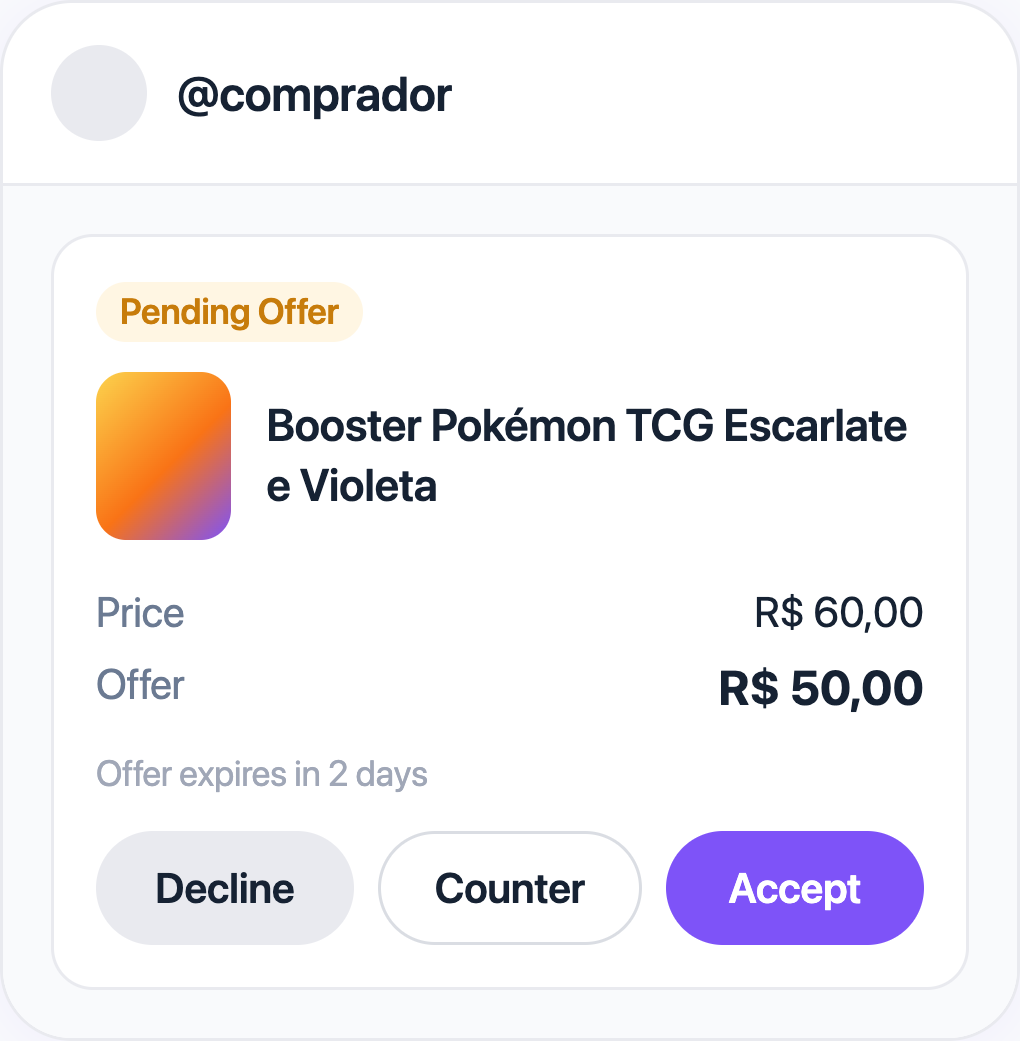
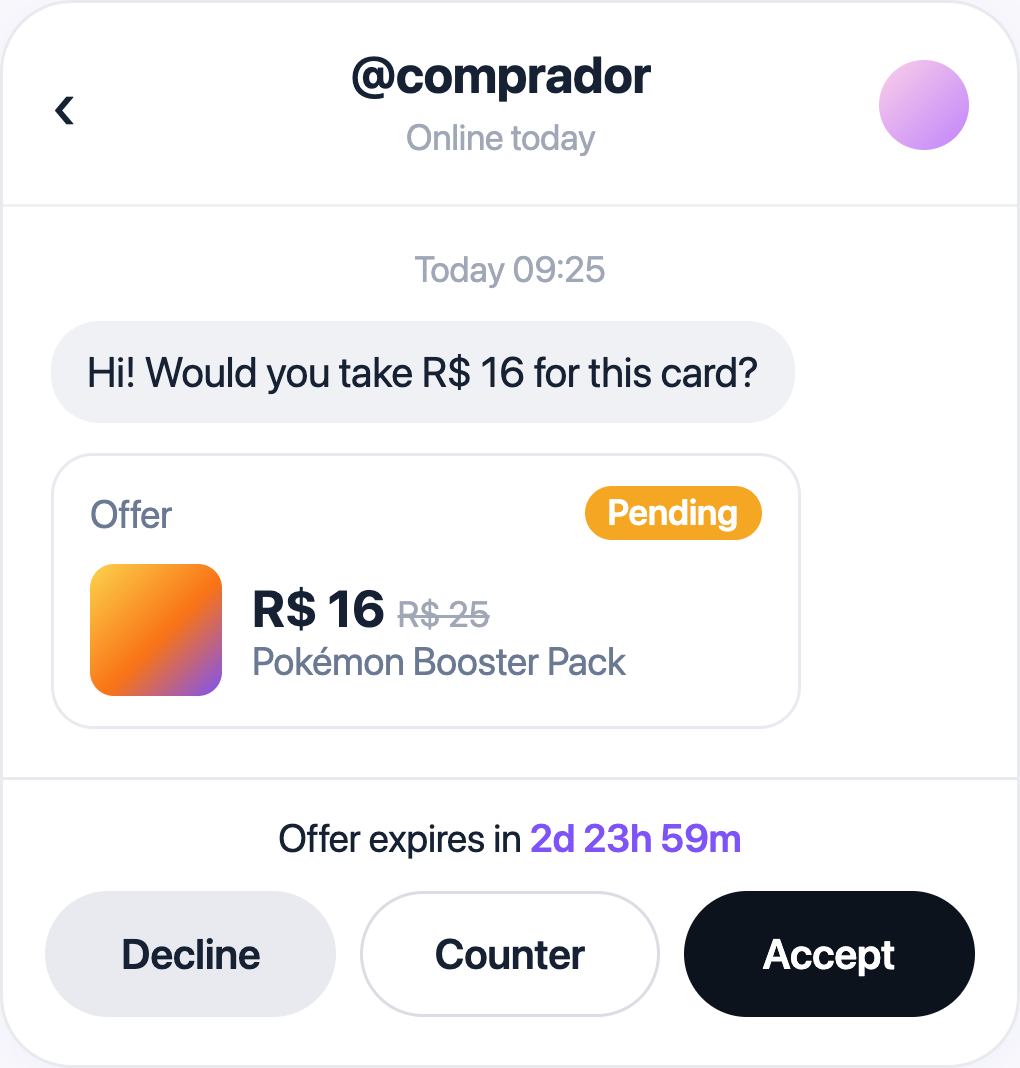
content: align mockups with the real app screens (cart, + menu, DM offer)
Rebuilt from the Figma screens Vai shared: cart sheet (seller header, steppers,
server note 'Ofertas, descontos, frete e taxas são aplicados ao finalizar a
compra.'), Android profile + menu (Agendar uma Live / Criar anúncio na Loja),
DM offer with the bottom bar (expiry, Recusar / Contrapor / Aceitar).
Sell-mode picker (v3, both locales): server titles (Ofertas em Tempo Real,
Morte Súbita, Comprar Agora) and no invented subtitles; the old one described
Comprar Agora with the flash-sale text.

diff --git a/articles/buy-in-the-loja-cart-and-offers/mockup-sources/cart__pt-br.html b/articles/buy-in-the-loja-cart-and-offers/mockup-sources/cart__pt-br.html
@@ -8,22 +8,35 @@ body { font-family: -apple-system, "SF Pro Display", BlinkMacSystemFont, system-
 .btn-outline { background: #FFFFFF; color: #162233; border: 1px solid #DADDE3; }
 .muted { color: #6B7A92; }
 .tert { color: #A0A7B7; }
-.top { padding:14px 16px; font-size:17px; font-weight:600; border-bottom:1px solid #E9EAEF; }
-.grp { padding:14px 16px 4px; }
-.sl { display:flex; align-items:center; gap:8px; font-size:14px; font-weight:600; margin-bottom:10px; }
-.sl .av { width:24px; height:24px; border-radius:50%; background:#E9EAEF; }
-.line { display:flex; gap:12px; align-items:center; padding:8px 0; }
-.th { width:52px; height:52px; border-radius:10px; flex-shrink:0; }
-.lt { flex:1; font-size:14px; line-height:19px; }
-.lp { font-size:14px; font-weight:600; }
-.sum { margin:8px 16px 0; padding-top:12px; border-top:1px solid #E9EAEF; display:flex; justify-content:space-between; font-size:15px; }
-.go { padding:14px 16px 16px; }
-.note { font-size:12px; text-align:center; margin-top:8px; }
+.top { display:flex; align-items:center; justify-content:space-between; padding:18px 16px 12px; }
+.top h1 { font-size:24px; font-weight:700; letter-spacing:-0.01em; }
+.x { width:32px; height:32px; border-radius:50%; background:#E9EAEF; display:flex; align-items:center; justify-content:center; font-size:15px; font-weight:700; }
+.box { margin:0 12px 14px; border:1px solid #E9EAEF; border-radius:14px; overflow:hidden; }
+.sh { display:flex; align-items:center; gap:10px; padding:12px; border-bottom:1px solid #E9EAEF; }
+.sh .av { width:38px; height:38px; border-radius:50%; background:linear-gradient(135deg,#FDE68A,#F59E0B); }
+.sh .nm { font-size:15px; font-weight:600; }
+.sh .nm span { color:#F5A623; font-weight:500; font-size:13px; }
+.sh .hd { font-size:12px; color:#6B7A92; }
+.sh .tot { margin-left:auto; text-align:right; font-size:15px; font-weight:600; }
+.sh .tot div { font-size:12px; color:#7E53F8; font-weight:600; }
+.ln { display:flex; gap:10px; padding:10px 12px; border-bottom:1px solid #F0F1F5; align-items:center; }
+.th { width:48px; height:48px; border-radius:8px; flex-shrink:0; }
+.li { flex:1; min-width:0; }
+.li .t { font-size:13px; font-weight:600; white-space:nowrap; overflow:hidden; text-overflow:ellipsis; }
+.li b { font-size:15px; }
+.li s { font-size:12px; color:#A0A7B7; margin-left:4px; }
+.st { display:flex; align-items:center; gap:8px; background:#F0F1F5; border-radius:16px; padding:3px; }
+.st i { width:24px; height:24px; border-radius:50%; background:#FFFFFF; display:flex; align-items:center; justify-content:center; }
+.st span { font-size:13px; font-weight:600; min-width:10px; text-align:center; }
+.ft { display:flex; align-items:center; gap:12px; padding:12px; }
+.ft .sub { font-size:12px; color:#6B7A92; }
+.ft .sub b { display:block; font-size:20px; color:#162233; }
+.ft .btn { flex:1; }
+.note { font-size:11px; color:#6B7A92; text-align:center; padding:0 12px 12px; }
 </style></head><body><div class="phone">
-<div class="top">Carrinho</div>
-<div class="grp"><div class="sl"><div class="av"></div>@colecionador</div>
-<div class="line"><div class="th" style="background: linear-gradient(135deg,#FCD34D 0%,#F97316 55%,#7E53F8 100%);"></div><div class="lt">Booster Pokémon TCG Escarlate e Violeta</div><div class="lp">R$ 60,00</div></div>
-<div class="line"><div class="th" style="background:linear-gradient(135deg,#93C5FD,#2563EB)"></div><div class="lt">Hot Wheels Nissan Skyline GT-R</div><div class="lp">R$ 35,00</div></div></div>
-<div class="sum"><span class="muted">Subtotal</span><b>R$ 95,00</b></div>
-<div class="go"><div class="btn btn-brand">Finalizar compra</div><div class="note tert">O frete e as taxas aparecem no checkout</div></div>
+<div class="top"><h1>Carrinho</h1><div class="x">✕</div></div>
+<div class="box"><div class="sh"><div class="av"></div><div><div class="nm">@colecionador <span>★ 4,9</span></div><div class="hd">Colecionador TCG</div></div><div class="tot">R$ 130,00<div>3 itens ^</div></div></div>
+<div class="ln"><div class="th" style="background: linear-gradient(135deg,#FCD34D 0%,#F97316 55%,#7E53F8 100%);"></div><div class="li"><div class="t">Booster Pokémon TCG Escarlate e Violeta</div><b>R$ 60,00</b><s>R$ 80,00</s></div><div class="st"><i><svg width="12" height="13" viewBox="0 0 12 13"><path d="M1 3H11M4.5 3V1.5H7.5V3M2.5 3L3 12H9L9.5 3" fill="#162233" stroke="#162233" stroke-width="1.2" stroke-linejoin="round"/></svg></i><span>1</span><i><svg width="12" height="12" viewBox="0 0 12 12"><path d="M6 2V10M2 6H10" stroke="#162233" stroke-width="2" stroke-linecap="round"/></svg></i></div></div><div class="ln"><div class="th" style="background:linear-gradient(135deg,#93C5FD,#2563EB)"></div><div class="li"><div class="t">Hot Wheels Nissan Skyline GT-R</div><b>R$ 35,00</b><s></s></div><div class="st"><i><svg width="12" height="12" viewBox="0 0 12 12"><path d="M2 6H10" stroke="#162233" stroke-width="2" stroke-linecap="round"/></svg></i><span>2</span><i><svg width="12" height="12" viewBox="0 0 12 12"><path d="M6 2V10M2 6H10" stroke="#162233" stroke-width="2" stroke-linecap="round"/></svg></i></div></div>
+<div class="ft"><div class="sub">Subtotal<b>R$ 130</b></div><div class="btn btn-brand">Finalizar compra</div></div>
+<div class="note">Ofertas, descontos, frete e taxas são aplicados ao finalizar a compra.</div></div>
 </div></body></html>

diff --git a/articles/buy-in-the-loja-cart-and-offers/mockup-sources/cart__en.html b/articles/buy-in-the-loja-cart-and-offers/mockup-sources/cart__en.html
@@ -8,22 +8,35 @@ body { font-family: -apple-system, "SF Pro Display", BlinkMacSystemFont, system-
 .btn-outline { background: #FFFFFF; color: #162233; border: 1px solid #DADDE3; }
 .muted { color: #6B7A92; }
 .tert { color: #A0A7B7; }
-.top { padding:14px 16px; font-size:17px; font-weight:600; border-bottom:1px solid #E9EAEF; }
-.grp { padding:14px 16px 4px; }
-.sl { display:flex; align-items:center; gap:8px; font-size:14px; font-weight:600; margin-bottom:10px; }
-.sl .av { width:24px; height:24px; border-radius:50%; background:#E9EAEF; }
-.line { display:flex; gap:12px; align-items:center; padding:8px 0; }
-.th { width:52px; height:52px; border-radius:10px; flex-shrink:0; }
-.lt { flex:1; font-size:14px; line-height:19px; }
-.lp { font-size:14px; font-weight:600; }
-.sum { margin:8px 16px 0; padding-top:12px; border-top:1px solid #E9EAEF; display:flex; justify-content:space-between; font-size:15px; }
-.go { padding:14px 16px 16px; }
-.note { font-size:12px; text-align:center; margin-top:8px; }
+.top { display:flex; align-items:center; justify-content:space-between; padding:18px 16px 12px; }
+.top h1 { font-size:24px; font-weight:700; letter-spacing:-0.01em; }
+.x { width:32px; height:32px; border-radius:50%; background:#E9EAEF; display:flex; align-items:center; justify-content:center; font-size:15px; font-weight:700; }
+.box { margin:0 12px 14px; border:1px solid #E9EAEF; border-radius:14px; overflow:hidden; }
+.sh { display:flex; align-items:center; gap:10px; padding:12px; border-bottom:1px solid #E9EAEF; }
+.sh .av { width:38px; height:38px; border-radius:50%; background:linear-gradient(135deg,#FDE68A,#F59E0B); }
+.sh .nm { font-size:15px; font-weight:600; }
+.sh .nm span { color:#F5A623; font-weight:500; font-size:13px; }
+.sh .hd { font-size:12px; color:#6B7A92; }
+.sh .tot { margin-left:auto; text-align:right; font-size:15px; font-weight:600; }
+.sh .tot div { font-size:12px; color:#7E53F8; font-weight:600; }
+.ln { display:flex; gap:10px; padding:10px 12px; border-bottom:1px solid #F0F1F5; align-items:center; }
+.th { width:48px; height:48px; border-radius:8px; flex-shrink:0; }
+.li { flex:1; min-width:0; }
+.li .t { font-size:13px; font-weight:600; white-space:nowrap; overflow:hidden; text-overflow:ellipsis; }
+.li b { font-size:15px; }
+.li s { font-size:12px; color:#A0A7B7; margin-left:4px; }
+.st { display:flex; align-items:center; gap:8px; background:#F0F1F5; border-radius:16px; padding:3px; }
+.st i { width:24px; height:24px; border-radius:50%; background:#FFFFFF; display:flex; align-items:center; justify-content:center; }
+.st span { font-size:13px; font-weight:600; min-width:10px; text-align:center; }
+.ft { display:flex; align-items:center; gap:12px; padding:12px; }
+.ft .sub { font-size:12px; color:#6B7A92; }
+.ft .sub b { display:block; font-size:20px; color:#162233; }
+.ft .btn { flex:1; }
+.note { font-size:11px; color:#6B7A92; text-align:center; padding:0 12px 12px; }
 </style></head><body><div class="phone">
-<div class="top">Cart</div>
-<div class="grp"><div class="sl"><div class="av"></div>@colecionador</div>
-<div class="line"><div class="th" style="background: linear-gradient(135deg,#FCD34D 0%,#F97316 55%,#7E53F8 100%);"></div><div class="lt">Booster Pokémon TCG Escarlate e Violeta</div><div class="lp">R$ 60,00</div></div>
-<div class="line"><div class="th" style="background:linear-gradient(135deg,#93C5FD,#2563EB)"></div><div class="lt">Hot Wheels Nissan Skyline GT-R</div><div class="lp">R$ 35,00</div></div></div>
-<div class="sum"><span class="muted">Subtotal</span><b>R$ 95,00</b></div>
-<div class="go"><div class="btn btn-brand">Checkout</div><div class="note tert">Shipping and fees show at checkout</div></div>
+<div class="top"><h1>Cart</h1><div class="x">✕</div></div>
+<div class="box"><div class="sh"><div class="av"></div><div><div class="nm">@colecionador <span>★ 4,9</span></div><div class="hd">Colecionador TCG</div></div><div class="tot">R$ 130,00<div>3 items ^</div></div></div>
+<div class="ln"><div class="th" style="background: linear-gradient(135deg,#FCD34D 0%,#F97316 55%,#7E53F8 100%);"></div><div class="li"><div class="t">Booster Pokémon TCG Escarlate e Violeta</div><b>R$ 60,00</b><s>R$ 80,00</s></div><div class="st"><i><svg width="12" height="13" viewBox="0 0 12 13"><path d="M1 3H11M4.5 3V1.5H7.5V3M2.5 3L3 12H9L9.5 3" fill="#162233" stroke="#162233" stroke-width="1.2" stroke-linejoin="round"/></svg></i><span>1</span><i><svg width="12" height="12" viewBox="0 0 12 12"><path d="M6 2V10M2 6H10" stroke="#162233" stroke-width="2" stroke-linecap="round"/></svg></i></div></div><div class="ln"><div class="th" style="background:linear-gradient(135deg,#93C5FD,#2563EB)"></div><div class="li"><div class="t">Hot Wheels Nissan Skyline GT-R</div><b>R$ 35,00</b><s></s></div><div class="st"><i><svg width="12" height="12" viewBox="0 0 12 12"><path d="M2 6H10" stroke="#162233" stroke-width="2" stroke-linecap="round"/></svg></i><span>2</span><i><svg width="12" height="12" viewBox="0 0 12 12"><path d="M6 2V10M2 6H10" stroke="#162233" stroke-width="2" stroke-linecap="round"/></svg></i></div></div>
+<div class="ft"><div class="sub">Subtotal<b>R$ 130</b></div><div class="btn btn-brand">Proceed Checkout</div></div>
+<div class="note">Offers, discounts, shipping and fees are applied at checkout.</div></div>
 </div></body></html>

diff --git a/articles/sell-in-the-loja-without-a-live/mockup-sources/create-menu__pt-br.html b/articles/sell-in-the-loja-without-a-live/mockup-sources/create-menu__pt-br.html
@@ -8,21 +8,19 @@ body { font-family: -apple-system, "SF Pro Display", BlinkMacSystemFont, system-
 .btn-outline { background: #FFFFFF; color: #162233; border: 1px solid #DADDE3; }
 .muted { color: #6B7A92; }
 .tert { color: #A0A7B7; }
-.prof { padding:18px; display:flex; align-items:center; gap:12px; border-bottom:1px solid #E9EAEF; }
-.av { width:52px; height:52px; border-radius:50%; background:#E9EAEF; }
-.nm { font-size:17px; font-weight:600; }
-.plus { margin-left:auto; width:36px; height:36px; border-radius:50%; background:#7E53F8; color:#FFFFFF; display:flex; align-items:center; justify-content:center; box-shadow:0 0 0 4px rgba(126,83,248,0.18); }
-.grid { display:grid; grid-template-columns:1fr 1fr 1fr; gap:6px; padding:12px; opacity:0.35; }
-.grid div { aspect-ratio:1; border-radius:8px; background:#E9EAEF; }
-.dim { background:rgba(12,19,29,0.32); padding:14px 12px 12px; }
-.sh { background:#FFFFFF; border-radius:16px; overflow:hidden; }
-.it { display:flex; align-items:center; gap:12px; padding:15px 16px; font-size:16px; font-weight:500; border-bottom:1px solid #F0F1F5; }
-.it:last-child { border-bottom:none; }
-.it.hl { background:#F9F8FF; color:#7E53F8; font-weight:600; }
-.ic { width:28px; height:28px; border-radius:8px; background:#E9EAEF; display:flex; align-items:center; justify-content:center; color:#6B7A92; }
-.it.hl .ic { background:rgba(126,83,248,0.12); color:#7E53F8; }
+.hdr { display:flex; align-items:center; padding:22px 18px 14px; border-bottom:1px solid #F0F1F5; }
+.hdr h1 { font-size:26px; font-weight:700; letter-spacing:-0.02em; flex:1; }
+.hdr .ic { margin-left:18px; display:flex; }
+.prof { position:relative; display:flex; gap:14px; padding:16px 18px 10px; }
+.av { width:72px; height:72px; border-radius:50%; background:linear-gradient(135deg,#C7D2FE,#A5B4FC); flex-shrink:0; }
+.lines div { height:10px; border-radius:5px; background:#E9EAEF; margin:8px 0; }
+.menu { position:absolute; right:14px; top:-6px; width:236px; background:#FFFFFF; border-radius:14px; box-shadow:0 8px 28px rgba(22,34,51,0.16); padding:6px 0; }
+.menu div { display:flex; align-items:center; gap:14px; padding:13px 16px; font-size:16px; font-weight:500; }
+.chips { display:flex; gap:6px; padding:8px 18px 18px; }
+.chips span { border:1px solid #E9EAEF; border-radius:16px; padding:6px 10px; font-size:12px; color:#6B7A92; }
 </style></head><body><div class="phone">
-<div class="prof"><div class="av"></div><div><div class="nm">@colecionador</div><div class="muted" style="font-size:13px">Vendedor</div></div><div class="plus"><svg width="14" height="14" viewBox="0 0 14 14" fill="none"><path d="M7 1.5V12.5M1.5 7H12.5" stroke="currentColor" stroke-width="2" stroke-linecap="round"/></svg></div></div>
-<div class="grid"><div></div><div></div><div></div></div>
-<div class="dim"><div class="sh"><div class="it"><div class="ic"><svg width="18" height="18" viewBox="0 0 24 24" fill="none"><rect x="2.5" y="6" width="13" height="12" rx="2.5" stroke="currentColor" stroke-width="2"/><path d="M15.5 10.5L21 7.5V16.5L15.5 13.5" stroke="currentColor" stroke-width="2" stroke-linejoin="round"/></svg></div>Agendar uma Live</div><div class="it hl"><div class="ic"><svg width="18" height="18" viewBox="0 0 24 24" fill="none"><path d="M3 4H5.2L7.4 15.2C7.5 15.7 7.9 16 8.4 16H18.2C18.7 16 19.1 15.7 19.2 15.2L20.6 8H6.1" stroke="currentColor" stroke-width="2" stroke-linecap="round" stroke-linejoin="round"/><circle cx="9" cy="20" r="1.5" fill="currentColor"/><circle cx="17.5" cy="20" r="1.5" fill="currentColor"/></svg></div>Criar anúncio na Loja</div></div></div>
+<div class="hdr"><h1>Felipe Sanchez</h1><div class="ic"><svg width="22" height="22" viewBox="0 0 22 22" fill="none"><path d="M11 3V19M3 11H19" stroke="#162233" stroke-width="2.6" stroke-linecap="round"/></svg></div><div class="ic"><svg width="24" height="24" viewBox="0 0 24 24" fill="none"><path d="M12 8.5A3.5 3.5 0 1 0 12 15.5A3.5 3.5 0 1 0 12 8.5Z M19.4 13.5L21 12L19.4 10.5L19.8 8.3L17.7 7.6L17 5.5L14.8 5.9L13.5 4H10.5L9.2 5.9L7 5.5L6.3 7.6L4.2 8.3L4.6 10.5L3 12L4.6 13.5L4.2 15.7L6.3 16.4L7 18.5L9.2 18.1L10.5 20H13.5L14.8 18.1L17 18.5L17.7 16.4L19.8 15.7Z" fill="#162233" fill-rule="evenodd"/></svg></div></div>
+<div class="prof"><div class="av"></div><div class="lines" style="flex:1"><div style="width:60%"></div><div style="width:40%"></div><div style="width:50%"></div></div>
+<div class="menu"><div><svg width="24" height="24" viewBox="0 0 24 24" fill="none"><rect x="2" y="5.5" width="14" height="13" rx="3" fill="#162233"/><path d="M16 10.5L22 7V17L16 13.5Z" fill="#162233"/><path d="M9 9V15M6 12H12" stroke="#FFFFFF" stroke-width="1.8" stroke-linecap="round"/></svg>Agendar uma Live</div><div><svg width="22" height="22" viewBox="0 0 24 24" fill="none"><path d="M3 12.2V4.5C3 3.7 3.7 3 4.5 3H12.2C12.6 3 13 3.2 13.3 3.4L20.6 10.7C21.2 11.3 21.2 12.3 20.6 12.9L12.9 20.6C12.3 21.2 11.3 21.2 10.7 20.6L3.4 13.3C3.2 13 3 12.6 3 12.2Z" fill="#162233"/><circle cx="8" cy="8" r="1.7" fill="#FFFFFF"/></svg>Criar anúncio na Loja</div></div></div>
+<div class="chips"><span>5,2 dias</span><span>★ 4.8 (112)</span><span>1.6K</span></div>
 </div></body></html>

diff --git a/articles/sell-in-the-loja-without-a-live/mockup-sources/create-menu__en.html b/articles/sell-in-the-loja-without-a-live/mockup-sources/create-menu__en.html
@@ -8,21 +8,19 @@ body { font-family: -apple-system, "SF Pro Display", BlinkMacSystemFont, system-
 .btn-outline { background: #FFFFFF; color: #162233; border: 1px solid #DADDE3; }
 .muted { color: #6B7A92; }
 .tert { color: #A0A7B7; }
-.prof { padding:18px; display:flex; align-items:center; gap:12px; border-bottom:1px solid #E9EAEF; }
-.av { width:52px; height:52px; border-radius:50%; background:#E9EAEF; }
-.nm { font-size:17px; font-weight:600; }
-.plus { margin-left:auto; width:36px; height:36px; border-radius:50%; background:#7E53F8; color:#FFFFFF; display:flex; align-items:center; justify-content:center; box-shadow:0 0 0 4px rgba(126,83,248,0.18); }
-.grid { display:grid; grid-template-columns:1fr 1fr 1fr; gap:6px; padding:12px; opacity:0.35; }
-.grid div { aspect-ratio:1; border-radius:8px; background:#E9EAEF; }
-.dim { background:rgba(12,19,29,0.32); padding:14px 12px 12px; }
-.sh { background:#FFFFFF; border-radius:16px; overflow:hidden; }
-.it { display:flex; align-items:center; gap:12px; padding:15px 16px; font-size:16px; font-weight:500; border-bottom:1px solid #F0F1F5; }
-.it:last-child { border-bottom:none; }
-.it.hl { background:#F9F8FF; color:#7E53F8; font-weight:600; }
-.ic { width:28px; height:28px; border-radius:8px; background:#E9EAEF; display:flex; align-items:center; justify-content:center; color:#6B7A92; }
-.it.hl .ic { background:rgba(126,83,248,0.12); color:#7E53F8; }
+.hdr { display:flex; align-items:center; padding:22px 18px 14px; border-bottom:1px solid #F0F1F5; }
+.hdr h1 { font-size:26px; font-weight:700; letter-spacing:-0.02em; flex:1; }
+.hdr .ic { margin-left:18px; display:flex; }
+.prof { position:relative; display:flex; gap:14px; padding:16px 18px 10px; }
+.av { width:72px; height:72px; border-radius:50%; background:linear-gradient(135deg,#C7D2FE,#A5B4FC); flex-shrink:0; }
+.lines div { height:10px; border-radius:5px; background:#E9EAEF; margin:8px 0; }
+.menu { position:absolute; right:14px; top:-6px; width:236px; background:#FFFFFF; border-radius:14px; box-shadow:0 8px 28px rgba(22,34,51,0.16); padding:6px 0; }
+.menu div { display:flex; align-items:center; gap:14px; padding:13px 16px; font-size:16px; font-weight:500; }
+.chips { display:flex; gap:6px; padding:8px 18px 18px; }
+.chips span { border:1px solid #E9EAEF; border-radius:16px; padding:6px 10px; font-size:12px; color:#6B7A92; }
 </style></head><body><div class="phone">
-<div class="prof"><div class="av"></div><div><div class="nm">@colecionador</div><div class="muted" style="font-size:13px">Seller</div></div><div class="plus"><svg width="14" height="14" viewBox="0 0 14 14" fill="none"><path d="M7 1.5V12.5M1.5 7H12.5" stroke="currentColor" stroke-width="2" stroke-linecap="round"/></svg></div></div>
-<div class="grid"><div></div><div></div><div></div></div>
-<div class="dim"><div class="sh"><div class="it"><div class="ic"><svg width="18" height="18" viewBox="0 0 24 24" fill="none"><rect x="2.5" y="6" width="13" height="12" rx="2.5" stroke="currentColor" stroke-width="2"/><path d="M15.5 10.5L21 7.5V16.5L15.5 13.5" stroke="currentColor" stroke-width="2" stroke-linejoin="round"/></svg></div>Schedule a Live</div><div class="it hl"><div class="ic"><svg width="18" height="18" viewBox="0 0 24 24" fill="none"><path d="M3 4H5.2L7.4 15.2C7.5 15.7 7.9 16 8.4 16H18.2C18.7 16 19.1 15.7 19.2 15.2L20.6 8H6.1" stroke="currentColor" stroke-width="2" stroke-linecap="round" stroke-linejoin="round"/><circle cx="9" cy="20" r="1.5" fill="currentColor"/><circle cx="17.5" cy="20" r="1.5" fill="currentColor"/></svg></div>Create a Store listing</div></div></div>
+<div class="hdr"><h1>Felipe Sanchez</h1><div class="ic"><svg width="22" height="22" viewBox="0 0 22 22" fill="none"><path d="M11 3V19M3 11H19" stroke="#162233" stroke-width="2.6" stroke-linecap="round"/></svg></div><div class="ic"><svg width="24" height="24" viewBox="0 0 24 24" fill="none"><path d="M12 8.5A3.5 3.5 0 1 0 12 15.5A3.5 3.5 0 1 0 12 8.5Z M19.4 13.5L21 12L19.4 10.5L19.8 8.3L17.7 7.6L17 5.5L14.8 5.9L13.5 4H10.5L9.2 5.9L7 5.5L6.3 7.6L4.2 8.3L4.6 10.5L3 12L4.6 13.5L4.2 15.7L6.3 16.4L7 18.5L9.2 18.1L10.5 20H13.5L14.8 18.1L17 18.5L17.7 16.4L19.8 15.7Z" fill="#162233" fill-rule="evenodd"/></svg></div></div>
+<div class="prof"><div class="av"></div><div class="lines" style="flex:1"><div style="width:60%"></div><div style="width:40%"></div><div style="width:50%"></div></div>
+<div class="menu"><div><svg width="24" height="24" viewBox="0 0 24 24" fill="none"><rect x="2" y="5.5" width="14" height="13" rx="3" fill="#162233"/><path d="M16 10.5L22 7V17L16 13.5Z" fill="#162233"/><path d="M9 9V15M6 12H12" stroke="#FFFFFF" stroke-width="1.8" stroke-linecap="round"/></svg>Schedule a Live</div><div><svg width="22" height="22" viewBox="0 0 24 24" fill="none"><path d="M3 12.2V4.5C3 3.7 3.7 3 4.5 3H12.2C12.6 3 13 3.2 13.3 3.4L20.6 10.7C21.2 11.3 21.2 12.3 20.6 12.9L12.9 20.6C12.3 21.2 11.3 21.2 10.7 20.6L3.4 13.3C3.2 13 3 12.6 3 12.2Z" fill="#162233"/><circle cx="8" cy="8" r="1.7" fill="#FFFFFF"/></svg>Create a Store listing</div></div></div>
+<div class="chips"><span>5,2 dias</span><span>★ 4.8 (112)</span><span>1.6K</span></div>
 </div></body></html>

diff --git a/articles/sell-in-the-loja-without-a-live/mockup-sources/offer-received__pt-br.html b/articles/sell-in-the-loja-without-a-live/mockup-sources/offer-received__pt-br.html
@@ -8,25 +8,34 @@ body { font-family: -apple-system, "SF Pro Display", BlinkMacSystemFont, system-
 .btn-outline { background: #FFFFFF; color: #162233; border: 1px solid #DADDE3; }
 .muted { color: #6B7A92; }
 .tert { color: #A0A7B7; }
-.top { padding:14px 16px; border-bottom:1px solid #E9EAEF; font-size:16px; font-weight:600; display:flex; align-items:center; gap:10px; }
-.top .av { width:32px; height:32px; border-radius:50%; background:#E9EAEF; }
-.wrap { padding:16px; background:#F9FAFC; }
-.card { background:#FFFFFF; border:1px solid #E9EAEF; border-radius:14px; padding:14px; }
-.badge { display:inline-block; font-size:12px; font-weight:600; color:#C77C0B; background:#FFF6E3; border-radius:10px; padding:3px 8px; margin-bottom:10px; }
-.prod { display:flex; gap:12px; align-items:center; margin-bottom:12px; }
-.thumb { width:56px; height:56px; border-radius:10px; background: linear-gradient(135deg,#FCD34D 0%,#F97316 55%,#7E53F8 100%); }
-.pt { font-size:15px; font-weight:600; line-height:20px; }
-.kv { display:flex; justify-content:space-between; font-size:14px; padding:4px 0; }
-.kv b { font-size:16px; }
-.exp { font-size:12px; margin:8px 0 12px; }
+.top { display:flex; align-items:center; padding:14px 16px; border-bottom:1px solid #F0F1F5; }
+.top .back { font-size:22px; color:#162233; width:24px; }
+.top .mid { flex:1; text-align:center; }
+.top .mid b { font-size:17px; display:block; }
+.top .mid span { font-size:12px; color:#A0A7B7; }
+.top .av { width:30px; height:30px; border-radius:50%; background:linear-gradient(135deg,#FBCFE8,#C084FC); }
+.chat { padding:14px 16px; min-height:190px; }
+.time { text-align:center; font-size:12px; color:#A0A7B7; margin-bottom:10px; }
+.msg { display:inline-block; background:#F0F1F5; border-radius:16px; padding:9px 12px; font-size:14px; margin-bottom:10px; }
+.bub { width:250px; border:1px solid #E9EAEF; border-radius:14px; padding:10px 12px; }
+.bh { display:flex; justify-content:space-between; align-items:center; font-size:13px; color:#6B7A92; margin-bottom:8px; }
+.pill { background:#F5A623; color:#FFFFFF; font-weight:600; font-size:12px; border-radius:10px; padding:2px 8px; }
+.bp { display:flex; gap:10px; align-items:center; }
+.th { width:44px; height:44px; border-radius:8px; background: linear-gradient(135deg,#FCD34D 0%,#F97316 55%,#7E53F8 100%); }
+.bp b { font-size:17px; }
+.bp s { font-size:12px; color:#A0A7B7; margin-left:4px; }
+.bp .n { font-size:13px; color:#6B7A92; }
+.bar { border-top:1px solid #E9EAEF; padding:12px 14px 16px; }
+.exp { text-align:center; font-size:13px; margin-bottom:10px; }
+.exp b { color:#7E53F8; font-weight:600; }
 .acts { display:flex; gap:8px; }
-.acts .btn { flex:1; height:38px; font-size:14px; }
+.acts .btn { flex:1; height:42px; font-size:14px; }
+.btn-dark { background:#0C131D; color:#FFFFFF; }
 </style></head><body><div class="phone">
-<div class="top"><div class="av"></div>@comprador</div>
-<div class="wrap"><div class="card"><div class="badge">Oferta pendente</div>
-<div class="prod"><div class="thumb"></div><div class="pt">Booster Pokémon TCG Escarlate e Violeta</div></div>
-<div class="kv"><span class="muted">Preço</span><span>R$ 60,00</span></div>
-<div class="kv"><span class="muted">Oferta</span><b>R$ 50,00</b></div>
-<div class="exp tert">A oferta expira em 2 dias</div>
-<div class="acts"><div class="btn btn-secondary">Recusar</div><div class="btn btn-outline">Contrapor</div><div class="btn btn-brand">Aceitar</div></div></div></div>
+<div class="top"><div class="back">‹</div><div class="mid"><b>@comprador</b><span>Online hoje</span></div><div class="av"></div></div>
+<div class="chat"><div class="time">Hoje 09:25</div><div class="msg">Oi! Aceita R$ 16 nessa carta?</div>
+<div class="bub"><div class="bh"><span>Oferta</span><span class="pill">Pendente</span></div>
+<div class="bp"><div class="th"></div><div><b>R$ 16</b><s>R$ 25</s><div class="n">Pokémon Booster Pack</div></div></div></div></div>
+<div class="bar"><div class="exp">A oferta expira em <b>2d 23h 59m</b></div>
+<div class="acts"><div class="btn btn-secondary">Recusar</div><div class="btn btn-outline">Contrapor</div><div class="btn btn-dark">Aceitar</div></div></div>
 </div></body></html>

diff --git a/articles/sell-in-the-loja-without-a-live/mockup-sources/offer-received__en.html b/articles/sell-in-the-loja-without-a-live/mockup-sources/offer-received__en.html
@@ -8,25 +8,34 @@ body { font-family: -apple-system, "SF Pro Display", BlinkMacSystemFont, system-
 .btn-outline { background: #FFFFFF; color: #162233; border: 1px solid #DADDE3; }
 .muted { color: #6B7A92; }
 .tert { color: #A0A7B7; }
-.top { padding:14px 16px; border-bottom:1px solid #E9EAEF; font-size:16px; font-weight:600; display:flex; align-items:center; gap:10px; }
-.top .av { width:32px; height:32px; border-radius:50%; background:#E9EAEF; }
-.wrap { padding:16px; background:#F9FAFC; }
-.card { background:#FFFFFF; border:1px solid #E9EAEF; border-radius:14px; padding:14px; }
-.badge { display:inline-block; font-size:12px; font-weight:600; color:#C77C0B; background:#FFF6E3; border-radius:10px; padding:3px 8px; margin-bottom:10px; }
-.prod { display:flex; gap:12px; align-items:center; margin-bottom:12px; }
-.thumb { width:56px; height:56px; border-radius:10px; background: linear-gradient(135deg,#FCD34D 0%,#F97316 55%,#7E53F8 100%); }
-.pt { font-size:15px; font-weight:600; line-height:20px; }
-.kv { display:flex; justify-content:space-between; font-size:14px; padding:4px 0; }
-.kv b { font-size:16px; }
-.exp { font-size:12px; margin:8px 0 12px; }
+.top { display:flex; align-items:center; padding:14px 16px; border-bottom:1px solid #F0F1F5; }
+.top .back { font-size:22px; color:#162233; width:24px; }
+.top .mid { flex:1; text-align:center; }
+.top .mid b { font-size:17px; display:block; }
+.top .mid span { font-size:12px; color:#A0A7B7; }
+.top .av { width:30px; height:30px; border-radius:50%; background:linear-gradient(135deg,#FBCFE8,#C084FC); }
+.chat { padding:14px 16px; min-height:190px; }
+.time { text-align:center; font-size:12px; color:#A0A7B7; margin-bottom:10px; }
+.msg { display:inline-block; background:#F0F1F5; border-radius:16px; padding:9px 12px; font-size:14px; margin-bottom:10px; }
+.bub { width:250px; border:1px solid #E9EAEF; border-radius:14px; padding:10px 12px; }
+.bh { display:flex; justify-content:space-between; align-items:center; font-size:13px; color:#6B7A92; margin-bottom:8px; }
+.pill { background:#F5A623; color:#FFFFFF; font-weight:600; font-size:12px; border-radius:10px; padding:2px 8px; }
+.bp { display:flex; gap:10px; align-items:center; }
+.th { width:44px; height:44px; border-radius:8px; background: linear-gradient(135deg,#FCD34D 0%,#F97316 55%,#7E53F8 100%); }
+.bp b { font-size:17px; }
+.bp s { font-size:12px; color:#A0A7B7; margin-left:4px; }
+.bp .n { font-size:13px; color:#6B7A92; }
+.bar { border-top:1px solid #E9EAEF; padding:12px 14px 16px; }
+.exp { text-align:center; font-size:13px; margin-bottom:10px; }
+.exp b { color:#7E53F8; font-weight:600; }
 .acts { display:flex; gap:8px; }
-.acts .btn { flex:1; height:38px; font-size:14px; }
+.acts .btn { flex:1; height:42px; font-size:14px; }
+.btn-dark { background:#0C131D; color:#FFFFFF; }
 </style></head><body><div class="phone">
-<div class="top"><div class="av"></div>@comprador</div>
-<div class="wrap"><div class="card"><div class="badge">Pending Offer</div>
-<div class="prod"><div class="thumb"></div><div class="pt">Booster Pokémon TCG Escarlate e Violeta</div></div>
-<div class="kv"><span class="muted">Price</span><span>R$ 60,00</span></div>
-<div class="kv"><span class="muted">Offer</span><b>R$ 50,00</b></div>
-<div class="exp tert">Offer expires in 2 days</div>
-<div class="acts"><div class="btn btn-secondary">Decline</div><div class="btn btn-outline">Counter</div><div class="btn btn-brand">Accept</div></div></div></div>
+<div class="top"><div class="back">‹</div><div class="mid"><b>@comprador</b><span>Online today</span></div><div class="av"></div></div>
+<div class="chat"><div class="time">Today 09:25</div><div class="msg">Hi! Would you take R$ 16 for this card?</div>
+<div class="bub"><div class="bh"><span>Offer</span><span class="pill">Pending</span></div>
+<div class="bp"><div class="th"></div><div><b>R$ 16</b><s>R$ 25</s><div class="n">Pokémon Booster Pack</div></div></div></div></div>
+<div class="bar"><div class="exp">Offer expires in <b>2d 23h 59m</b></div>
+<div class="acts"><div class="btn btn-secondary">Decline</div><div class="btn btn-outline">Counter</div><div class="btn btn-dark">Accept</div></div></div>
 </div></body></html>

diff --git a/articles/how-real-time-offers-work/mockup-sources/sell-mode-picker__pt-br.html b/articles/how-real-time-offers-work/mockup-sources/sell-mode-picker__pt-br.html
@@ -28,7 +28,7 @@ body { font-family: -apple-system, "SF Pro Display", BlinkMacSystemFont, system-
 <div class="group">
   <div class="opt selected">
     <div class="opt-icon purple"><svg width="18" height="18" viewBox="0 0 18 18" fill="none" xmlns="http://www.w3.org/2000/svg"><path fill-rule="evenodd" clip-rule="evenodd" d="M3.1875 9C3.1875 5.78984 5.78984 3.1875 9 3.1875C12.2102 3.1875 14.8125 5.78984 14.8125 9C14.8125 12.2102 12.2102 14.8125 9 14.8125C5.78984 14.8125 3.1875 12.2102 3.1875 9ZM9 5.0625C9.51777 5.0625 9.9375 5.48223 9.9375 6V8.61167L11.5379 10.2121C11.904 10.5782 11.904 11.1718 11.5379 11.5379C11.1718 11.904 10.5782 11.904 10.2121 11.5379L8.33709 9.66291C8.16127 9.4871 8.0625 9.24864 8.0625 9V6C8.0625 5.48223 8.48223 5.0625 9 5.0625Z" fill="currentColor"/><path fill-rule="evenodd" clip-rule="evenodd" d="M3.1875 9C3.1875 5.78984 5.78984 3.1875 9 3.1875C12.2102 3.1875 14.8125 5.78984 14.8125 9C14.8125 12.2102 12.2102 14.8125 9 14.8125C5.78984 14.8125 3.1875 12.2102 3.1875 9ZM9 1.3125C4.75431 1.3125 1.3125 4.75431 1.3125 9C1.3125 13.2457 4.75431 16.6875 9 16.6875C13.2457 16.6875 16.6875 13.2457 16.6875 9C16.6875 4.75431 13.2457 1.3125 9 1.3125Z" fill="currentColor"/></svg></div>
-    <div class="opt-text"><div class="opt-name">Oferta em tempo real</div><div class="opt-sub">A última oferta vence ao final do tempo</div></div>
+    <div class="opt-text"><div class="opt-name">Ofertas em Tempo Real</div></div>
     <div class="radio selected"></div>
   </div>
   <div class="expanded">
@@ -37,12 +37,12 @@ body { font-family: -apple-system, "SF Pro Display", BlinkMacSystemFont, system-
   </div>
   <div class="opt">
     <div class="opt-icon gray"><svg viewBox="0 0 24 24" fill="none" xmlns="http://www.w3.org/2000/svg"><path fill-rule="evenodd" clip-rule="evenodd" d="M12 2C7.58 2 4 5.58 4 10V14.5C4 15.33 4.67 16 5.5 16H6.5V19C6.5 19.55 6.95 20 7.5 20H9V21.5C9 21.78 9.22 22 9.5 22H10.5C10.78 22 11 21.78 11 21.5V20H13V21.5C13 21.78 13.22 22 13.5 22H14.5C14.78 22 15 21.78 15 21.5V20H16.5C17.05 20 17.5 19.55 17.5 19V16H18.5C19.33 16 20 15.33 20 14.5V10C20 5.58 16.42 2 12 2ZM9 12C7.9 12 7 11.1 7 10C7 8.9 7.9 8 9 8C10.1 8 11 8.9 11 10C11 11.1 10.1 12 9 12ZM15 12C13.9 12 13 11.1 13 10C13 8.9 13.9 8 15 8C16.1 8 17 8.9 17 10C17 11.1 16.1 12 15 12ZM12 17C11.45 17 11 16.55 11 16V14C11 13.45 11.45 13 12 13C12.55 13 13 13.45 13 14V16C13 16.55 12.55 17 12 17Z" fill="currentColor"/></svg></div>
-    <div class="opt-text"><div class="opt-name">Morte súbita</div><div class="opt-sub">Sem tempo adicional, mesmo que alguém dê uma oferta</div></div>
+    <div class="opt-text"><div class="opt-name">Morte Súbita</div></div>
     <div class="radio"></div>
   </div>
   <div class="opt">
     <div class="opt-icon gray"><svg viewBox="0 0 24 24" fill="none" xmlns="http://www.w3.org/2000/svg"><path fill-rule="evenodd" clip-rule="evenodd" d="M8 6V5C8 2.79 9.79 1 12 1C14.21 1 16 2.79 16 5V6H18.5C19.6 6 20.5 6.9 20.5 8L21 19C21 20.66 19.66 22 18 22H6C4.34 22 3 20.66 3 19L3.5 8C3.5 6.9 4.4 6 5.5 6H8ZM10 6H14V5C14 3.9 13.1 3 12 3C10.9 3 10 3.9 10 5V6Z" fill="currentColor"/></svg></div>
-    <div class="opt-text"><div class="opt-name">Comprar agora</div><div class="opt-sub">Ofereça um desconto em um item durante um período limitado</div></div>
+    <div class="opt-text"><div class="opt-name">Comprar Agora</div></div>
     <div class="radio"></div>
   </div>
 </div>

diff --git a/articles/how-real-time-offers-work/mockup-sources/sell-mode-picker__en.html b/articles/how-real-time-offers-work/mockup-sources/sell-mode-picker__en.html
@@ -28,7 +28,7 @@ body { font-family: -apple-system, "SF Pro Display", BlinkMacSystemFont, system-
 <div class="group">
   <div class="opt selected">
     <div class="opt-icon purple"><svg width="18" height="18" viewBox="0 0 18 18" fill="none" xmlns="http://www.w3.org/2000/svg"><path fill-rule="evenodd" clip-rule="evenodd" d="M3.1875 9C3.1875 5.78984 5.78984 3.1875 9 3.1875C12.2102 3.1875 14.8125 5.78984 14.8125 9C14.8125 12.2102 12.2102 14.8125 9 14.8125C5.78984 14.8125 3.1875 12.2102 3.1875 9ZM9 5.0625C9.51777 5.0625 9.9375 5.48223 9.9375 6V8.61167L11.5379 10.2121C11.904 10.5782 11.904 11.1718 11.5379 11.5379C11.1718 11.904 10.5782 11.904 10.2121 11.5379L8.33709 9.66291C8.16127 9.4871 8.0625 9.24864 8.0625 9V6C8.0625 5.48223 8.48223 5.0625 9 5.0625Z" fill="currentColor"/><path fill-rule="evenodd" clip-rule="evenodd" d="M3.1875 9C3.1875 5.78984 5.78984 3.1875 9 3.1875C12.2102 3.1875 14.8125 5.78984 14.8125 9C14.8125 12.2102 12.2102 14.8125 9 14.8125C5.78984 14.8125 3.1875 12.2102 3.1875 9ZM9 1.3125C4.75431 1.3125 1.3125 4.75431 1.3125 9C1.3125 13.2457 4.75431 16.6875 9 16.6875C13.2457 16.6875 16.6875 13.2457 16.6875 9C16.6875 4.75431 13.2457 1.3125 9 1.3125Z" fill="currentColor"/></svg></div>
-    <div class="opt-text"><div class="opt-name">Real-time offers</div><div class="opt-sub">The last bidder wins at the end of the time</div></div>
+    <div class="opt-text"><div class="opt-name">Real-Time Offers</div></div>
     <div class="radio selected"></div>
   </div>
   <div class="expanded">
@@ -37,12 +37,12 @@ body { font-family: -apple-system, "SF Pro Display", BlinkMacSystemFont, system-
   </div>
   <div class="opt">
     <div class="opt-icon gray"><svg viewBox="0 0 24 24" fill="none" xmlns="http://www.w3.org/2000/svg"><path fill-rule="evenodd" clip-rule="evenodd" d="M12 2C7.58 2 4 5.58 4 10V14.5C4 15.33 4.67 16 5.5 16H6.5V19C6.5 19.55 6.95 20 7.5 20H9V21.5C9 21.78 9.22 22 9.5 22H10.5C10.78 22 11 21.78 11 21.5V20H13V21.5C13 21.78 13.22 22 13.5 22H14.5C14.78 22 15 21.78 15 21.5V20H16.5C17.05 20 17.5 19.55 17.5 19V16H18.5C19.33 16 20 15.33 20 14.5V10C20 5.58 16.42 2 12 2ZM9 12C7.9 12 7 11.1 7 10C7 8.9 7.9 8 9 8C10.1 8 11 8.9 11 10C11 11.1 10.1 12 9 12ZM15 12C13.9 12 13 11.1 13 10C13 8.9 13.9 8 15 8C16.1 8 17 8.9 17 10C17 11.1 16.1 12 15 12ZM12 17C11.45 17 11 16.55 11 16V14C11 13.45 11.45 13 12 13C12.55 13 13 13.45 13 14V16C13 16.55 12.55 17 12 17Z" fill="currentColor"/></svg></div>
-    <div class="opt-text"><div class="opt-name">Sudden Death</div><div class="opt-sub">No added time, even if someone bids</div></div>
+    <div class="opt-text"><div class="opt-name">Sudden Death</div></div>
     <div class="radio"></div>
   </div>
   <div class="opt">
     <div class="opt-icon gray"><svg viewBox="0 0 24 24" fill="none" xmlns="http://www.w3.org/2000/svg"><path fill-rule="evenodd" clip-rule="evenodd" d="M8 6V5C8 2.79 9.79 1 12 1C14.21 1 16 2.79 16 5V6H18.5C19.6 6 20.5 6.9 20.5 8L21 19C21 20.66 19.66 22 18 22H6C4.34 22 3 20.66 3 19L3.5 8C3.5 6.9 4.4 6 5.5 6H8ZM10 6H14V5C14 3.9 13.1 3 12 3C10.9 3 10 3.9 10 5V6Z" fill="currentColor"/></svg></div>
-    <div class="opt-text"><div class="opt-name">Buy It Now</div><div class="opt-sub">Offer a discount on an item during a limited time</div></div>
+    <div class="opt-text"><div class="opt-name">Buy Now</div></div>
     <div class="radio"></div>
   </div>
 </div>

diff --git a/articles/how-real-time-offers-work/en.md b/articles/how-real-time-offers-work/en.md
@@ -24,7 +24,7 @@ This article covers the two modes with offers: **Oferta em tempo real** and **Mo
 
 When creating or editing the product, choose **Oferta em tempo real** or **Morte súbita** as the sell mode and fill in:
 
-![Sell mode screen with Real-time offers selected, Starting price and Duration fields visible](https://raw.githubusercontent.com/Jamble-Live-Shopping/help-center/main/assets/mockups/how-real-time-offers-work__sell-mode-picker__en__v2.png)
+![Sell mode screen with Real-time offers selected, Starting price and Duration fields visible](https://raw.githubusercontent.com/Jamble-Live-Shopping/help-center/main/assets/mockups/how-real-time-offers-work__sell-mode-picker__en__v3.png)
 
 - **Starting price:** the amount of the first offer. The minimum is R$ 5
 - **Duration:** how long the sale lasts, between 5 and 90 seconds. The default is 15 seconds
